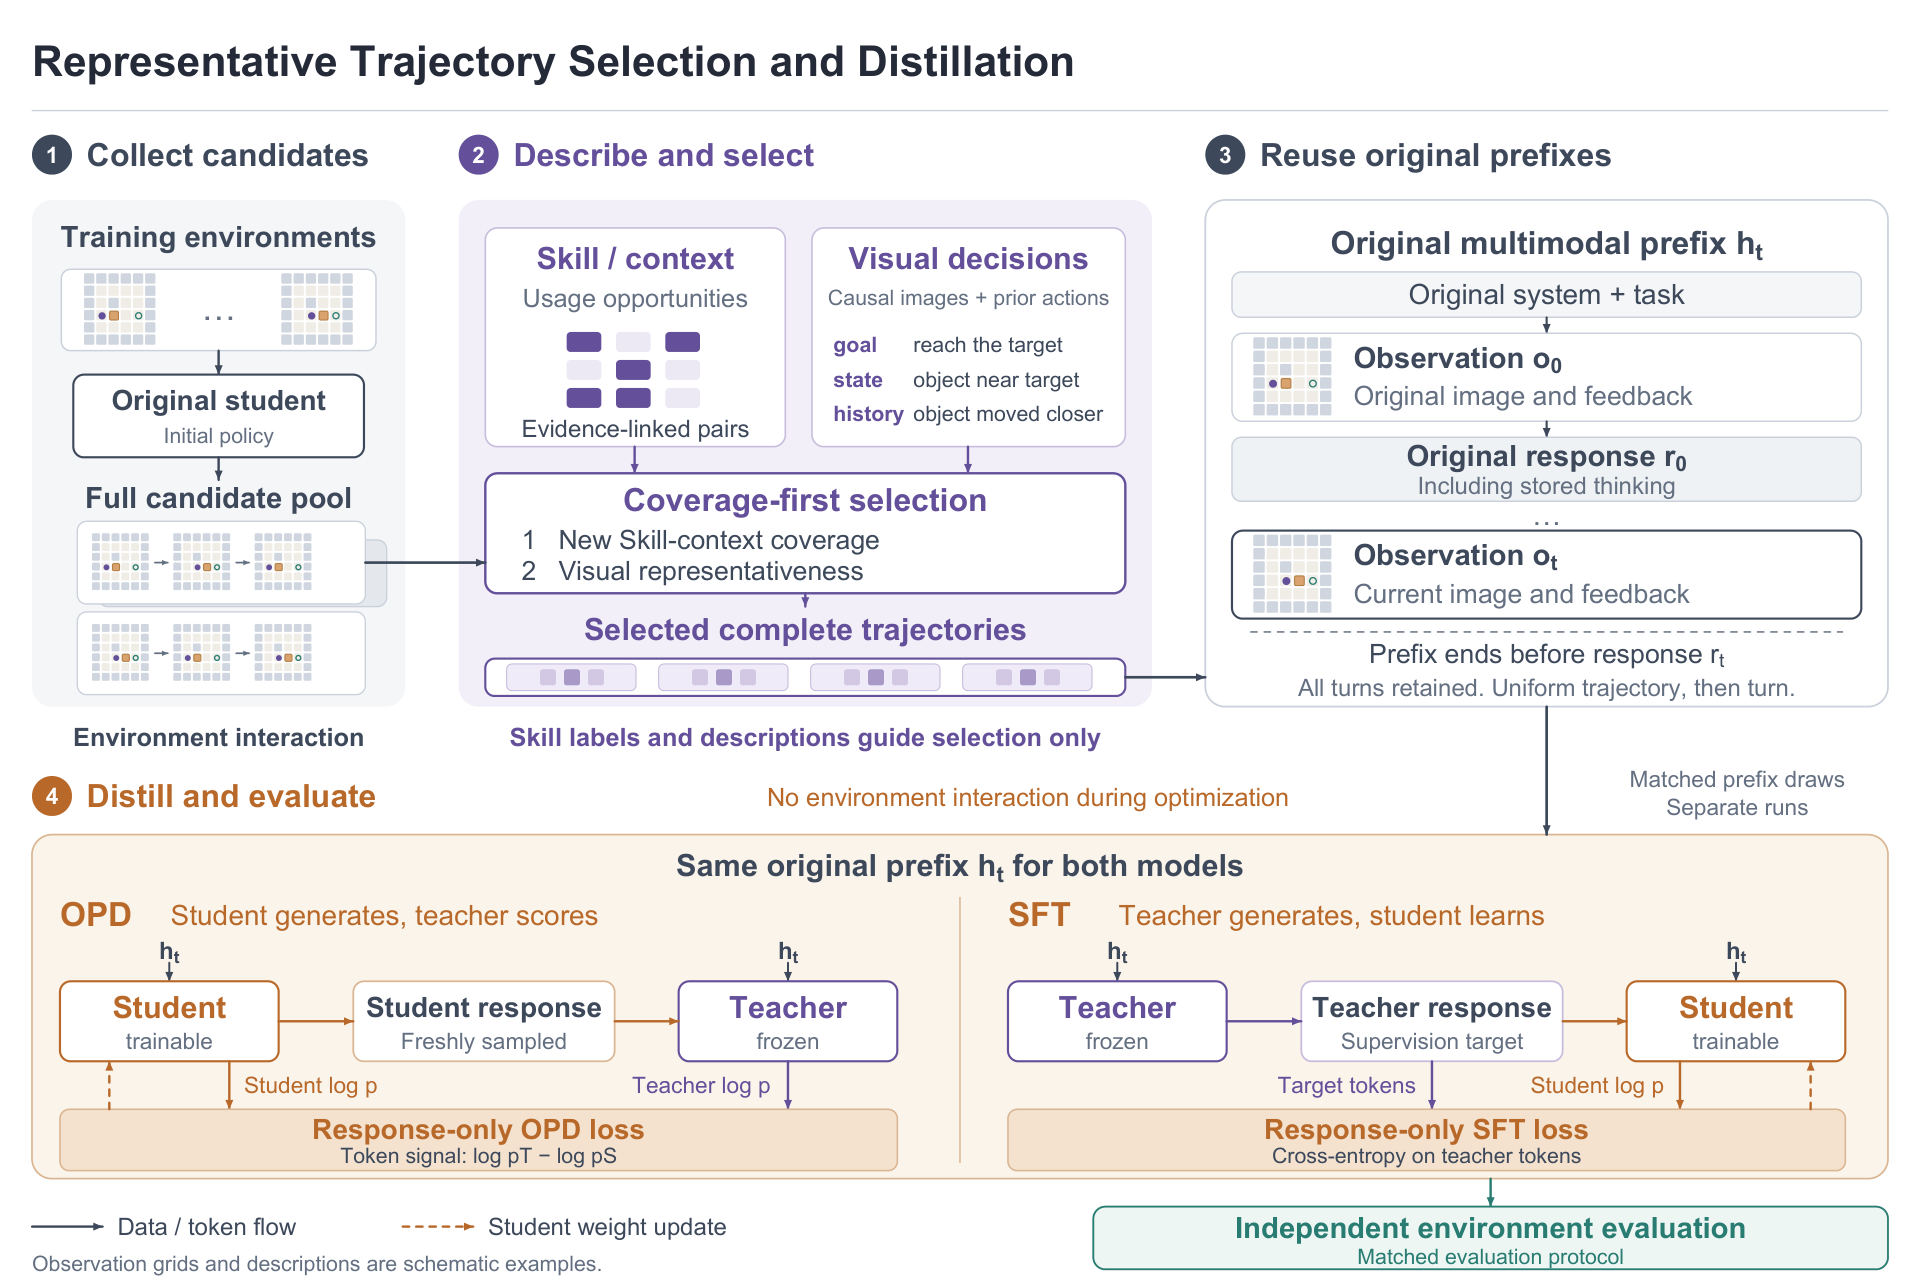
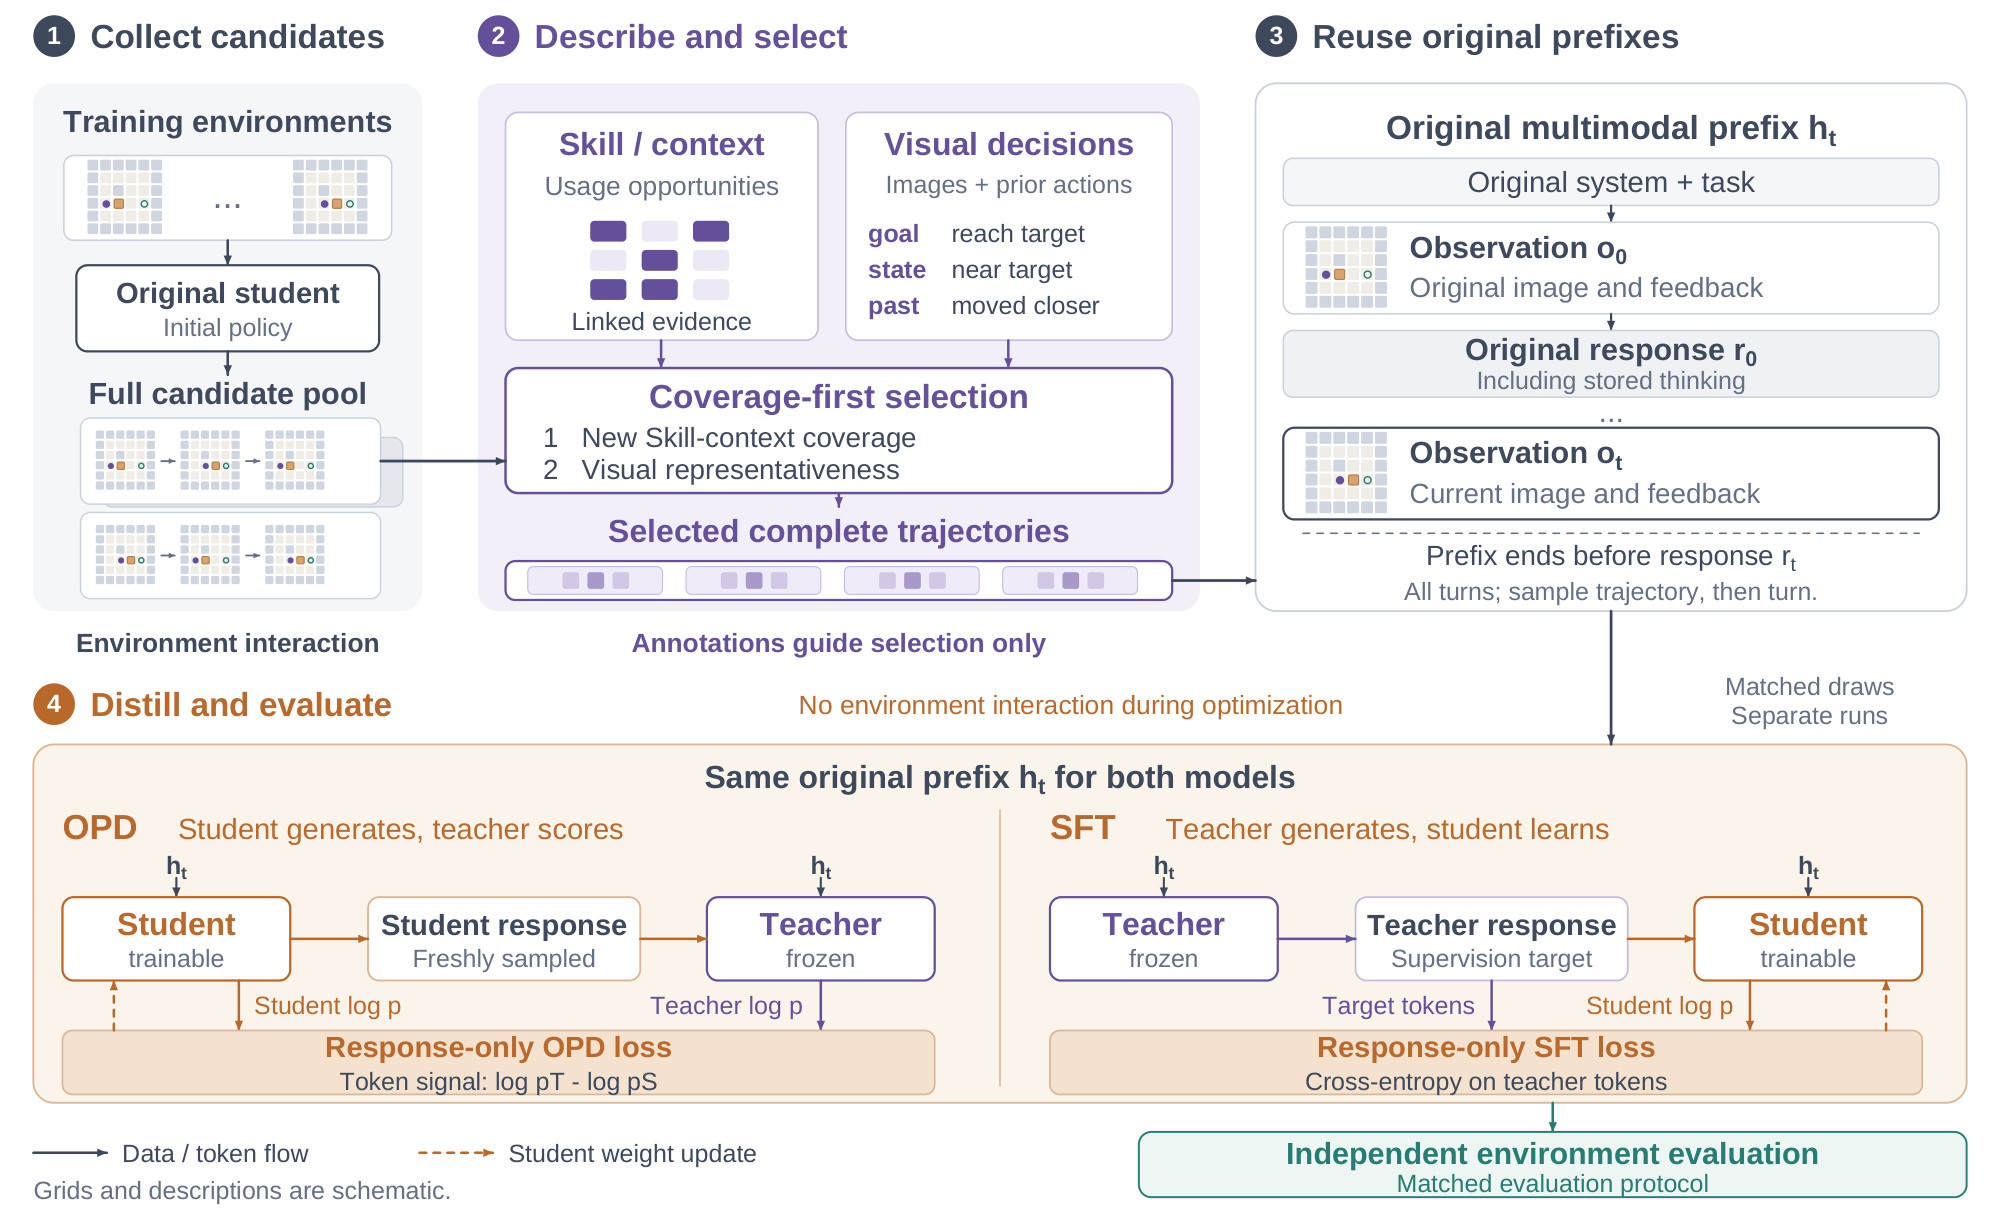
Align README highlights and figures with the updated paper

diff --git a/README.md b/README.md
@@ -4,15 +4,15 @@
 
 Adapt a visual agent by reusing a small set of interaction histories. Select complete trajectories, retain their original images and causal prefixes, and transfer a stronger teacher's behavior through fresh student responses. Offline training needs no further environment interaction; the trained agent is evaluated through new interactions.
 
-With **four selected trajectories per environment**, our Qwen3.5-4B student reaches **82.08% on Navigation** and **85.55% on Sokoban**, up from 49.17% and 60.16%. The same approach improves spatial mapping across single-room and two-room scenes. This repository contains the training and evaluation implementation, compact trajectory examples, frozen configurations, and measured results.
+With **four selected trajectories per environment**, our Qwen3.5-4B student reaches **82.08% on Navigation** and **85.55% on Sokoban**, up from 49.17% and 60.16%. On held-out SpatialGym rooms, the mapping score rises from **0.255 to 0.411**, recovering **77.4% of the measured student–teacher gap**, with improvements in **all four held-out rooms**. This repository contains the training and evaluation implementation, compact trajectory examples, frozen configurations, and measured results.
 
 [Results](#results) · [Method](#method) · [Trajectory examples](#explore-four-real-trajectories) · [Quick start](#quick-start) · [Training](#training-and-evaluation) · [Documentation](#documentation)
 
 > **Release scope:** the code starts from an already selected set of trajectories. Environment adapters, collection, prefix preparation, offline OPD, matched SFT, online OPD, and evaluation are included. The trajectory-selection front end is not released; its precomputed example annotations and choices are available to inspect.
 
-![Paper Figure 1: representative trajectory selection, results across trajectory budgets, and task-level transfer in Navigation, Sokoban, and SpatialGym.](assets/figures/teaser.png)
+![Paper Figure 1: representative trajectory selection and transfer in Navigation, Sokoban, and held-out single-room SpatialGym; four trajectories recover 77.4% of the SpatialGym student–teacher gap.](assets/figures/teaser.png)
 
-**Figure 1 — Four selected trajectories, broad task transfer.** Reproduced from the paper. The selected-data results are compared with the original student, teacher, and online OPD. Axes are zoomed and trajectory budgets are categorical. Task improvements use four-repeat task means. Results use one training seed; K1/K16 and random-subset endpoints are collaborator-reported. Click the image to view it at full resolution.
+**Figure 1 — Four selected trajectories, broad task transfer.** Reproduced from the paper. K4 outperforms the mean of three random subsets on Navigation and Sokoban; the SpatialGym panel shows **held-out single-room** results and **77.4% teacher-gap recovery**. Curves retain the original student, teacher, online OPD, and larger-data comparisons. Axes are zoomed and trajectory budgets are categorical. Task improvements use four-repeat task means. Results use one training seed; K1/K16 and random-subset endpoints are collaborator-reported. Click the image to view it at full resolution.
 
 ## Results
 
@@ -28,7 +28,7 @@ All adapted models below use **100 updates × 64 responses**, with the final mod
 | Full-pool SFT | 64.17% | 15.42% | 77.73% | 0.424 | 0.283 |
 | Online OPD | 78.75% | 21.25% | 85.94% | 0.476 | 0.305 |
 
-Four-trajectory OPD recovers **91.86% of the measured student–teacher gap on standard Navigation** and **90.28% on Sokoban**, where gap recovery is `(adapted − original student) / (teacher − original student)`. Broader training histories provide further gains on spatial mapping.
+Four-trajectory OPD recovers **91.86% of the measured student–teacher gap on standard Navigation**, **90.28% on Sokoban**, and **77.4% on held-out SpatialGym rooms**, where gap recovery is `(adapted − original student) / (teacher − original student)`. The table retains both held-out single-room and two-room SpatialGym results.
 
 Navigation and Sokoban report **binary success rates**. SpatialGym reports its **continuous cognitive-map score**, not a success percentage. The held-out single-room panel is a four-room development split; the two-room panel tests transfer to a different room layout. Navigation long-horizon uses different task configurations in the same simulator scenes.
 
